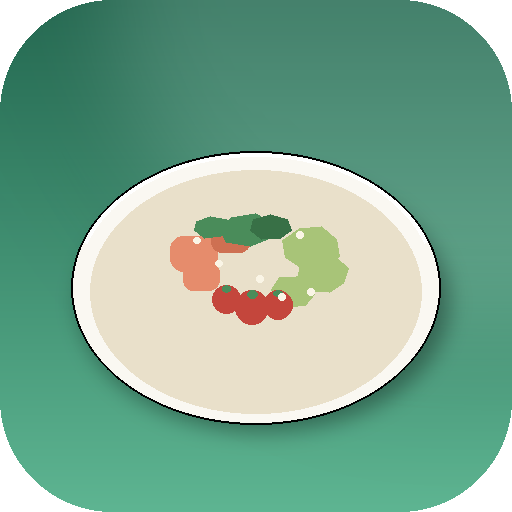
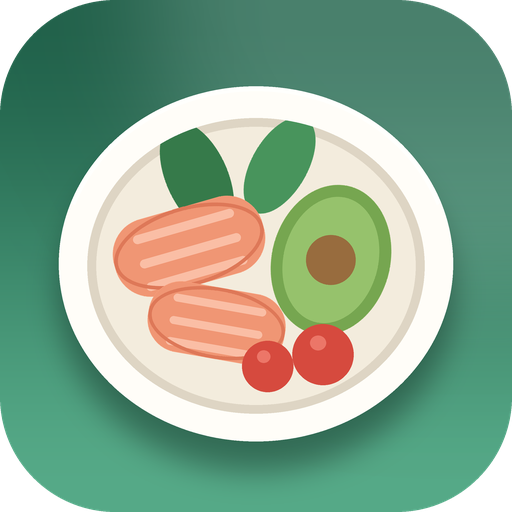
Rehacer el icono: composicion mas limpia (bol con salmon, aguacate, tomates y verdura) y renderizado con supersampling 4x para bordes suaves

diff --git a/service-worker.js b/service-worker.js
@@ -1,4 +1,4 @@
-const CACHE_VERSION = 'plan-alimentacion-v21';
+const CACHE_VERSION = 'plan-alimentacion-v22';
 const APP_SHELL = [
   './',
   './index.html',
